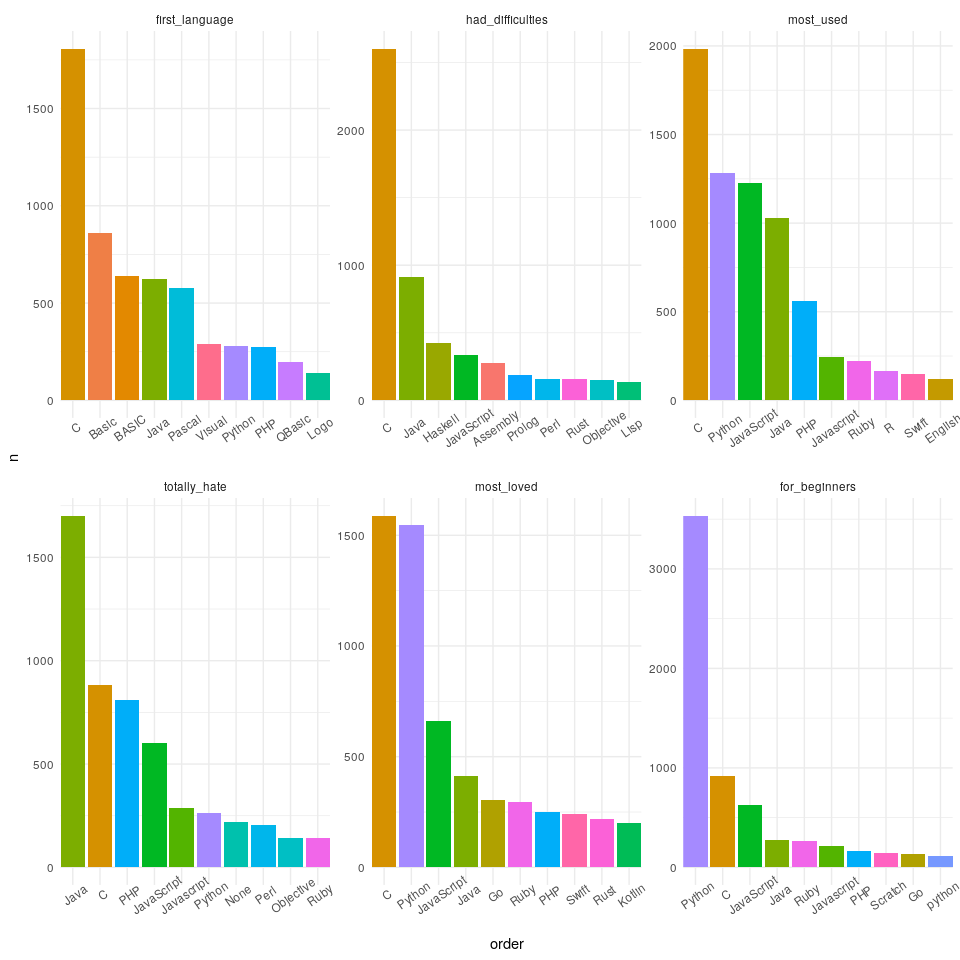
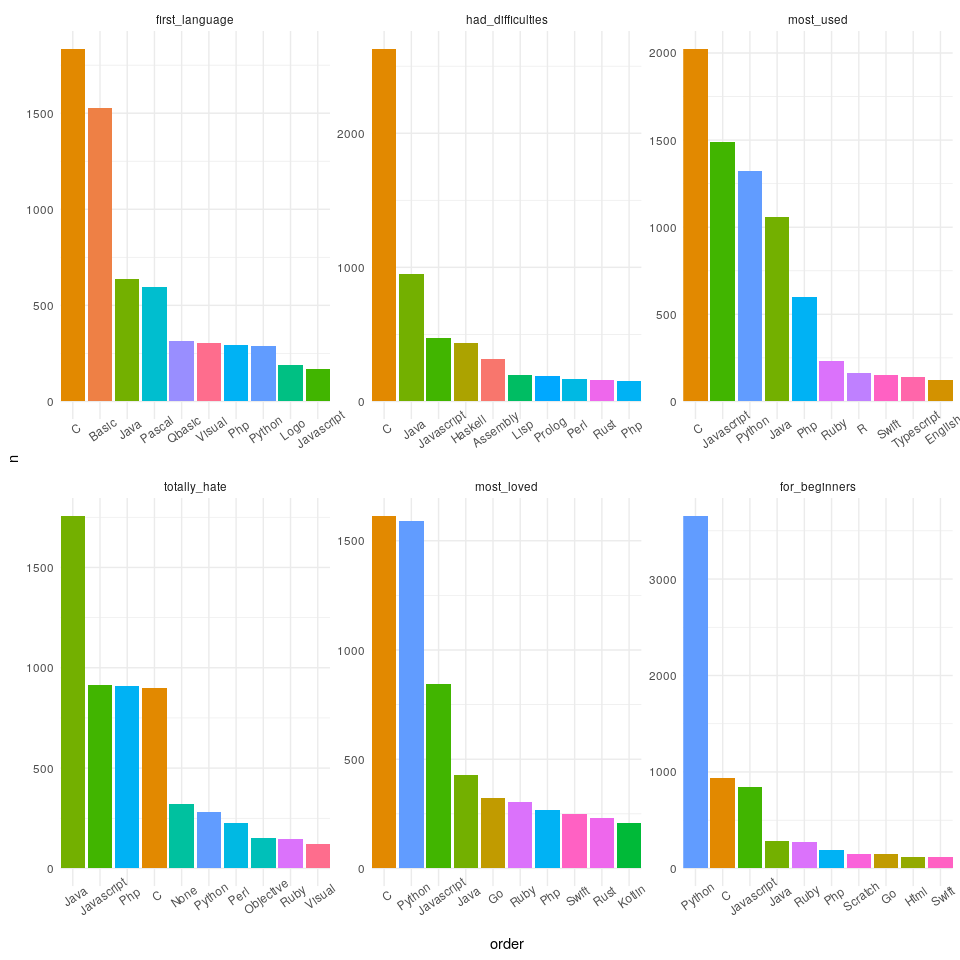
bug fix

diff --git a/README.md b/README.md
@@ -63,7 +63,8 @@ answers <- rt2 %>%
 
 ``` r
 ggdata <- answers %>% 
-  mutate(question = factor(question, levels =c('first_language','had_difficulties','most_used','totally_hate', 'most_loved','for_beginners') )) %>% 
+  mutate(question = factor(question, levels =c('first_language','had_difficulties','most_used','totally_hate', 'most_loved','for_beginners')),
+         answer = str_to_title(answer)) %>% 
   filter(answer!='') %>% 
   group_by(question,answer) %>% 
   summarise(n=n()) %>%
